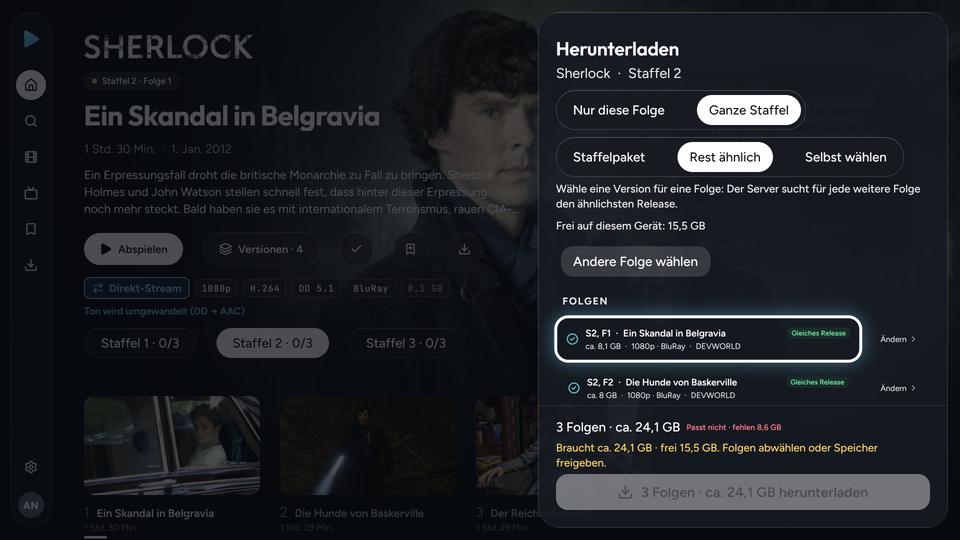
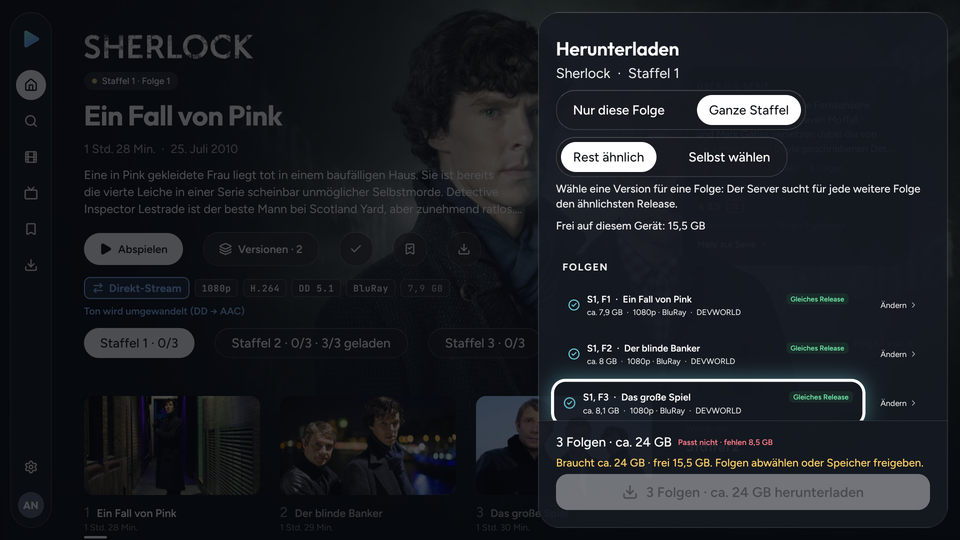
docs(client): DL-C2 journal — plan 1b re-check, untagged note, TV rest-similar re-take

diff --git a/docs/client/JOURNAL.md b/docs/client/JOURNAL.md
@@ -188,7 +188,7 @@ Append-only. One line per task outcome; details in `journal/<TASK-ID>.md`.
 - DL-S · done · offline downloads server: candidates/season packs/similarity plan with offline playability (native or VLC direct, reused version ranking), async prepare with copy-only fallback + hard check, resumable /api/v1/offline capability (Range/ETag/If-Range, pinned transfer sessions), records + allowDownloads/limits, priority below live streams (connection share, low priority, no article cache, throttle), occurredAt, web admin, Dev World RAR pack/mislabeled/offline faults; Server 1882/1895 (13 known ffmpeg), web 329/329, live 27/27, Dev World published → journal/DL-S.md
 - DL-C1 · partial · client download core: API freeze 9fa5d2a3 (types, MMKV store per server+viewer, manager prepare→long-poll→engine→verify→complete with 410/429/403/409/disk-full/Wi-Fi/validator handling, kill-safe reconciliation), metadata+artwork snapshot, connectivity + /offline shell, DownloadsLibrary, player local mode (expo-video/VLC, local tracks, newer resume, offline up-next), app-wide progress sync with occurredAt, sign-out/remove prompt; jest 2502/2502; phase B device verification pending DL-N integration → journal/DL-C1.md
 - DL-N · done · own Expo module offline-downloads (Android UIDT job/FGS, iOS background URLSession; Range+If-Range resume, native queue, Wi-Fi only) behind src/downloads/engine, verified on phone 14, Google TV 13, Android TV 14, iPhone sim → journal/DL-N.md
-- DL-C2 · done · download sheet (episode/movie, season pack, rest similar, each yourself, fit verdicts, stream-only line), Downloads tab/rail + badge, phone Library tab, detail defaults/markers/progress, settings + offline-shell section, TV D-pad; fix round 1 (C1-09…C1-26); phase B on Android phone, Android TV, iPhone and iPad sims against Dev World 39305 (43 screenshots, 8 device bugs fixed); open: iPhone "Mehr" tab, iOS sheet footer not pinned; typecheck/lint 0, sign-in waits read as such; plan language note, held-back downloads read as on hold; DL-C1 round-1 API (locked, unknown space, per-record re-renders), offline shell → play re-checked on TV + phone; VLC versions read as playable in the sheet; DL-S round 3 merged; blocked selections without a ready mark, failed row + other version on the phone; jest 274/2809 green → journal/DL-C2.md
+- DL-C2 · done · download sheet (episode/movie, season pack, rest similar, each yourself, fit verdicts, stream-only line), Downloads tab/rail + badge, phone Library tab, detail defaults/markers/progress, settings + offline-shell section, TV D-pad; fix round 1 (C1-09…C1-26); phase B on Android phone, Android TV, iPhone and iPad sims against Dev World 39305 (43 screenshots, 8 device bugs fixed); open: iPhone "Mehr" tab, iOS sheet footer not pinned; typecheck/lint 0, sign-in waits read as such; plan language note, held-back downloads read as on hold; DL-C1 round-1 API (locked, unknown space, per-record re-renders), offline shell → play re-checked on TV + phone; VLC versions read as playable in the sheet; DL-S round 3 merged; blocked selections without a ready mark, failed row + other version on the phone; plan 1b re-checked live, TV rest-similar re-taken; jest 275/2811 green → journal/DL-C2.md
 - DL-S · fix round 1 · done · all 17 verifier findings (V1-01…V1-17): revocable file access (per-download/viewer access generations, 2 s cut-off, age gate per request), security sign-out rotates file URLs (410 download_revoked, renew issues a new URL), idempotent prepares (unique key), transfers never evict playback, preparation in the download share + 1 resolve slot kept, refundable throttle, completion dedupe, preconditions, CORS, log redaction; 34 new tests fail on the pre-fix tree; Server 1933/1947 (13 known ffmpeg + 1 tunnel flake), web 329/329, live 27/27 + 16/16, Dev World re-published → journal/DL-S.md
 - DL-S · fix round 1b · done · similarity plan follows the picked version's language (same primary language or both untagged; viewer's language only as fallback with language_differs), recommendations unchanged; 4 new tests fail before; Server 1943/1957 (13 known ffmpeg + 1 tunnel load flake), live 28/28 + 16/16, Dev World re-published → journal/DL-S.md
 - DL-C1 · done · phase B passed on Android phone, Google TV 13 (D-pad) and iPhone Air: kill/terminate + re-attach, offline shell (no network / server down), local playback native + VLC with local audio switch, offline progress synced with real occurredAt, sign-out prompt; 7 device bugs fixed with tests (queue pump, handover flash, server-only hints, TV focus, single-failure probe, device clock skew → server time, AVPlayer crash on a download's nil text style rules); jest 2584/2584 → journal/DL-C1.md

diff --git a/docs/client/journal/DL-C2.md b/docs/client/journal/DL-C2.md
@@ -310,10 +310,20 @@ Phone screenshot review (orchestrator, queued before the VLC one; Android phone,
   had been killed and the new snapshot started (refresh token reuse); signed in again. Not downloads code; noted for
   the accounts owner.
 
-### Final checks (fb/dl-ui b4d49fc5, Node 24.14, load average 21–45)
+DL-S fix round 1b (queued note; long merged): live check on Dev World 39305 (snapshot 20261107T005229Z, kept data) —
+the untagged Sherlock S02E01 anchor gets `same_release` for `audioLanguages` `de` and `en`. An untagged
+`language_differs` choice now reads "Andere Sprache: ohne Angabe" / "Different language: unspecified" (35e5399f,
+was "Sprache nicht angegeben"). `tv-season-similar-rows-de` re-taken (it predated fix round 1): Sherlock S1 on the TV,
+all three rows "Gleiches Release", 24 GB against 15.5 GB free blocks confirm with the reason. Phone DE/EN were
+re-taken on this snapshot before (585d7044, 72b7c8e0). Merged fb/dl-core 730c68ed → a19ad4ee (conflict: DL-C1's
+"no Pause on failed rows" 09022098 = my condition, kept mine) and fb/downloads 89df7554 → 837c93a1. DL-C1's new
+`offline-shell-blocked.test.tsx` looked for their error message in the list row, which shows the short on-hold
+reason since 908f7fec; the assertion follows the row now (bb1f3c0a, same meaning).
+
+### Final checks (fb/dl-ui 35e5399f, Node 24.14, load average 31–41)
 
 - `npm run typecheck` → **0 errors**; `npm run lint` → **clean**.
-- `npx jest --testTimeout=30000` → **274 suites / 2809 tests, all pass** (after fix round 1: 255 / 2622; the rest are
+- `npx jest --testTimeout=30000` → **275 suites / 2811 tests, all pass** (after fix round 1: 255 / 2622; the rest are
   DL-C1's and DL-S's merged suites plus the phase B fixes' coverage). The 30 s timeout is for the load of the shared
   machine (see fix round 1); no test needed it alone.
 
@@ -365,6 +375,7 @@ Phone screenshot review (orchestrator, queued before the VLC one; Android phone,
   iPad in landscape) need a scroll to reach it. react-native-screens lays out iOS formSheet content absolutely without
   a bottom edge, so a flex footer collapses, and `unstable_sheetFooter` is Android-only.
 - Device run still missing for the `waiting_server` countdown (jest only); "Andere Version" is covered on the phone.
-- `language_differs` row note not seen on a device: no Dev World fixture lacks the anchor's language in an episode.
+- `language_differs` row note not seen on a device: no Dev World fixture lacks the anchor's language in an episode
+  (jest covers the tagged and the untagged note).
 - Android TV: a warm `streamarr://downloads` selects the Downloads rail entry but leaves D-pad focus where it was.
 - The in-player version panel does not mark the downloaded version (the player's local mode hides version chips).
